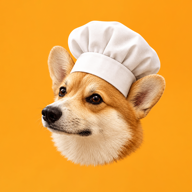
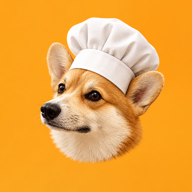
feat(pwa): отдельная maskable-иконка
Обычные иконки режутся из icon.png с крупным корги, maskable — из
icon-maskable.png, где рисунок вписан в безопасную зону Android.

Changed region(s): [[0.1875, 0.0625, 0.875, 0.875], [0.5938, 0.6562, 0.625, 0.6875]]

diff --git a/.github/pwa/sw.js b/.github/pwa/sw.js
@@ -1,6 +1,6 @@
 // Service worker сайта с рецептами: страницы и картинки, которые уже
 // открывались, остаются доступны без интернета.
-const CACHE = 'recipes-v3';
+const CACHE = 'recipes-v4';
 
 self.addEventListener('install', (event) => {
   // Главная страница нужна сразу, чтобы приложение открывалось офлайн.
